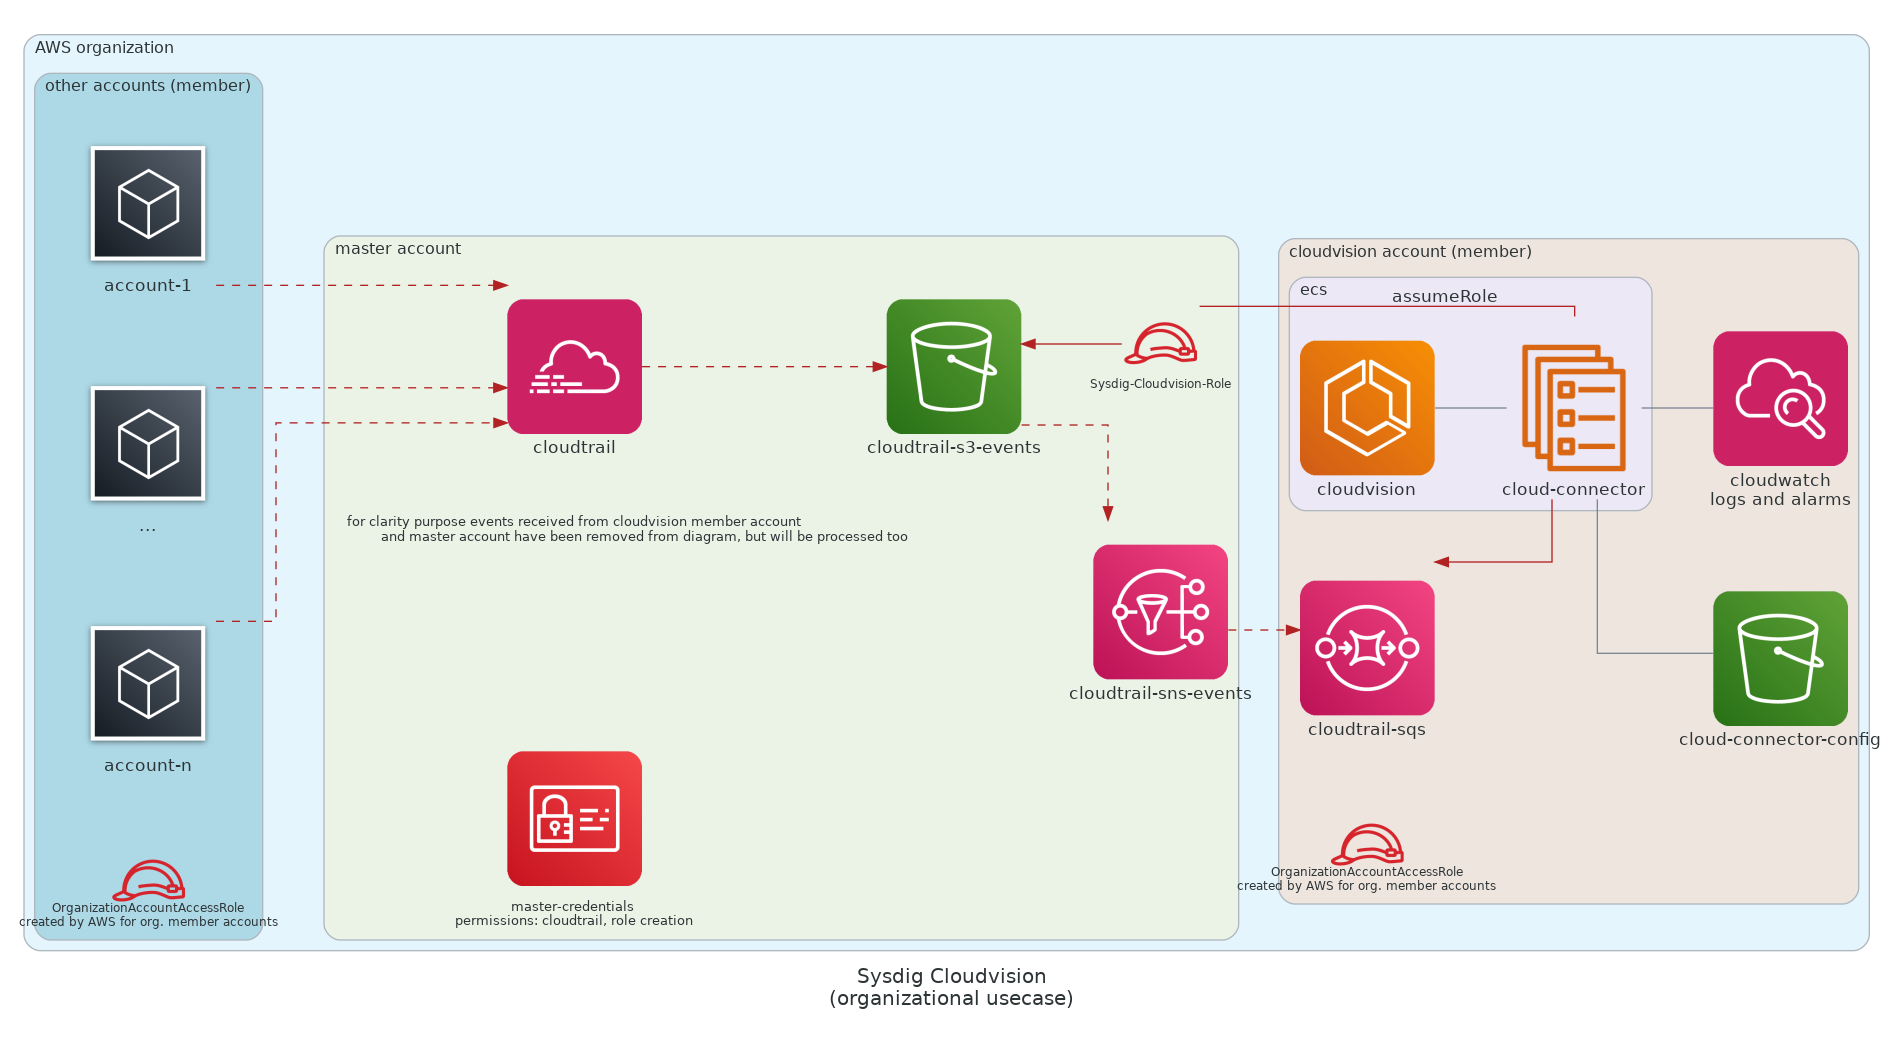
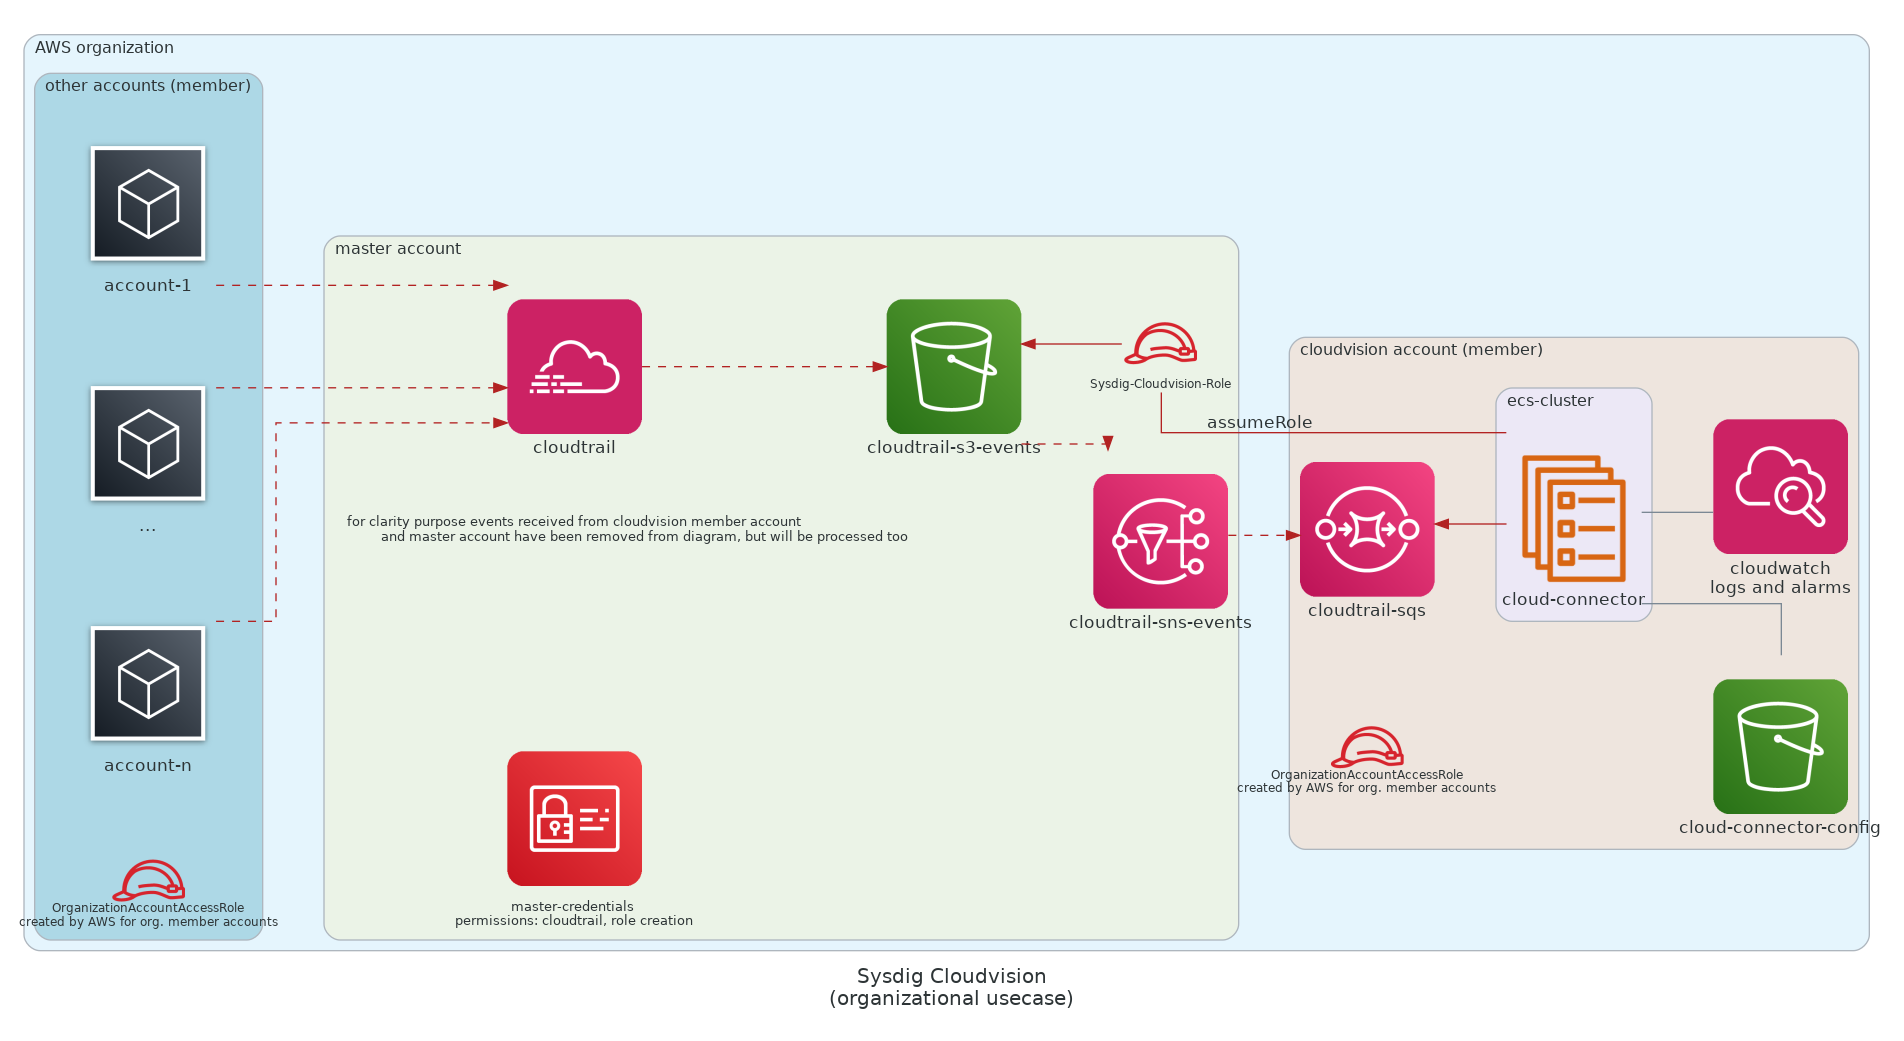
chore(doc): diagram refact

Changed region(s): [[0.5578, 0.2152, 0.9916, 0.8915], [0.5578, 0.3996, 0.5888, 0.4304]]

diff --git a/examples/single-account/diagram-single.py b/examples/single-account/diagram-single.py
@@ -5,7 +5,7 @@ from diagrams.aws.management import Cloudtrail
 from diagrams.aws.storage import S3, SimpleStorageServiceS3Bucket
 from diagrams.aws.integration import SNS
 from diagrams.aws.integration import SQS
-from diagrams.aws.compute import ElasticContainerServiceService
+from diagrams.aws.compute import ECS, ElasticContainerServiceService
 from diagrams.aws.security import IAMRole,IAM
 from diagrams.aws.management import Cloudwatch
 from diagrams.aws.devtools import Codebuild
@@ -33,6 +33,7 @@ with Diagram("Sysdig Cloudvision{}(single-account usecase)".format("\n"), graph_
 
         with Cluster("sysdig-cloudvision resources"):
 
+            # cloudtrail
             cloudtrail          = Cloudtrail("cloudtrail", shape="plaintext")
             cloudtrail_legend = ("for clarity purpose events received from sysdig-cloudvision resources\nhave been removed from diagram, but will be processed too")
             Node(label=cloudtrail_legend, width="5",shape="plaintext", labelloc="t", fontsize="10")
@@ -42,8 +43,8 @@ with Diagram("Sysdig Cloudvision{}(single-account usecase)".format("\n"), graph_
 
             cloudtrail >> Edge(color=event_color, style="dashed") >> cloudtrail_s3 >> Edge(color=event_color, style="dashed") >> sns
 
-            with Cluster("ecs"):
-                cloud_connect = ElasticContainerServiceService("cloud-connect")
+            with Cluster("ecs-cluster"):
+                cloud_connector = ElasticContainerServiceService("cloud-connector")
                 cloud_scanning = ElasticContainerServiceService("cloud-scanning")
 
             sqs = SQS("cloudtrail-sqs")
@@ -51,12 +52,21 @@ with Diagram("Sysdig Cloudvision{}(single-account usecase)".format("\n"), graph_
             cloudwatch = Cloudwatch("cloudwatch\nlogs and alarms")
             codebuild = Codebuild("Build-project")
 
-            sqs << Edge(color=event_color) << cloud_connect
-            cloud_connect - s3_config
-            cloud_connect - cloudwatch
+            sqs << Edge(color=event_color) << cloud_connector
+            cloud_connector - s3_config
+            cloud_connector - cloudwatch
             cloud_scanning - codebuild
+
+
+            # bench-role
+            cloud_bench_role = IAMRole("SysdigCloudBench", **role_attr)
 
         account_resources >> Edge(color=event_color, style="dashed") >>  cloudtrail
         sns >> Edge(color=event_color, style="dashed") >> sqs
-        (cloudtrail_s3 << Edge(color=event_color)) -  cloud_connect
+        (cloudtrail_s3 << Edge(color=event_color)) -  cloud_connector
         (cloudtrail_s3 << Edge(color=event_color)) - cloud_scanning
+
+    with Cluster("Sysdig Secure - Backend - AWS account", graph_attr={"bgcolor":"skyblue"}):
+        sds_account = General("cloudbench agentless runner")
+
+    cloud_bench_role - sds_account

diff --git a/examples/organizational/diagram-org.py b/examples/organizational/diagram-org.py
@@ -5,7 +5,7 @@ from diagrams.aws.management import Cloudtrail
 from diagrams.aws.storage import S3, SimpleStorageServiceS3Bucket
 from diagrams.aws.integration import SNS
 from diagrams.aws.integration import SQS
-from diagrams.aws.compute import ECS, ElasticContainerServiceService
+from diagrams.aws.compute import ElasticContainerServiceService
 from diagrams.aws.security import IAMRole,IAM
 from diagrams.aws.management import Cloudwatch
 
@@ -52,10 +52,8 @@ with Diagram("Sysdig Cloudvision{}(organizational usecase)".format("\n"), graph_
 
             org_member_role = IAMRole("OrganizationAccountAccessRole\ncreated by AWS for org. member accounts", **role_attr)
 
-            with Cluster("ecs"):
-                ecs = ECS("cloudvision")
+            with Cluster("ecs-cluster"):
                 cloud_connector = ElasticContainerServiceService("cloud-connector")
-                ecs - cloud_connector
 
             sqs = SQS("cloudtrail-sqs")
             s3_config = S3("cloud-connector-config")

diff --git a/examples/organizational/README.md b/examples/organizational/README.md
@@ -1,4 +1,4 @@
-# Sysdig Secure for Cloud in AWS: Shared Organizational Trail
+# Sysdig Secure for Cloud in AWS :: Shared Organizational Trail
 
 Deploy Sysdig Secure for Cloud sharing the Trail within an organization. The module will deploy an organizational
 CloudTrail and workload will be run in a member account.

diff --git a/examples/single-account/README.md b/examples/single-account/README.md
@@ -1,4 +1,4 @@
-# Sysdig Secure for Cloud in AWS: Single-Account
+# Sysdig Secure for Cloud in AWS :: Single-Account
 
 Deploy Sysdig Secure for Cloud in a single AWS account. All the required resources and workloads will be run
 under the same AWS account.
